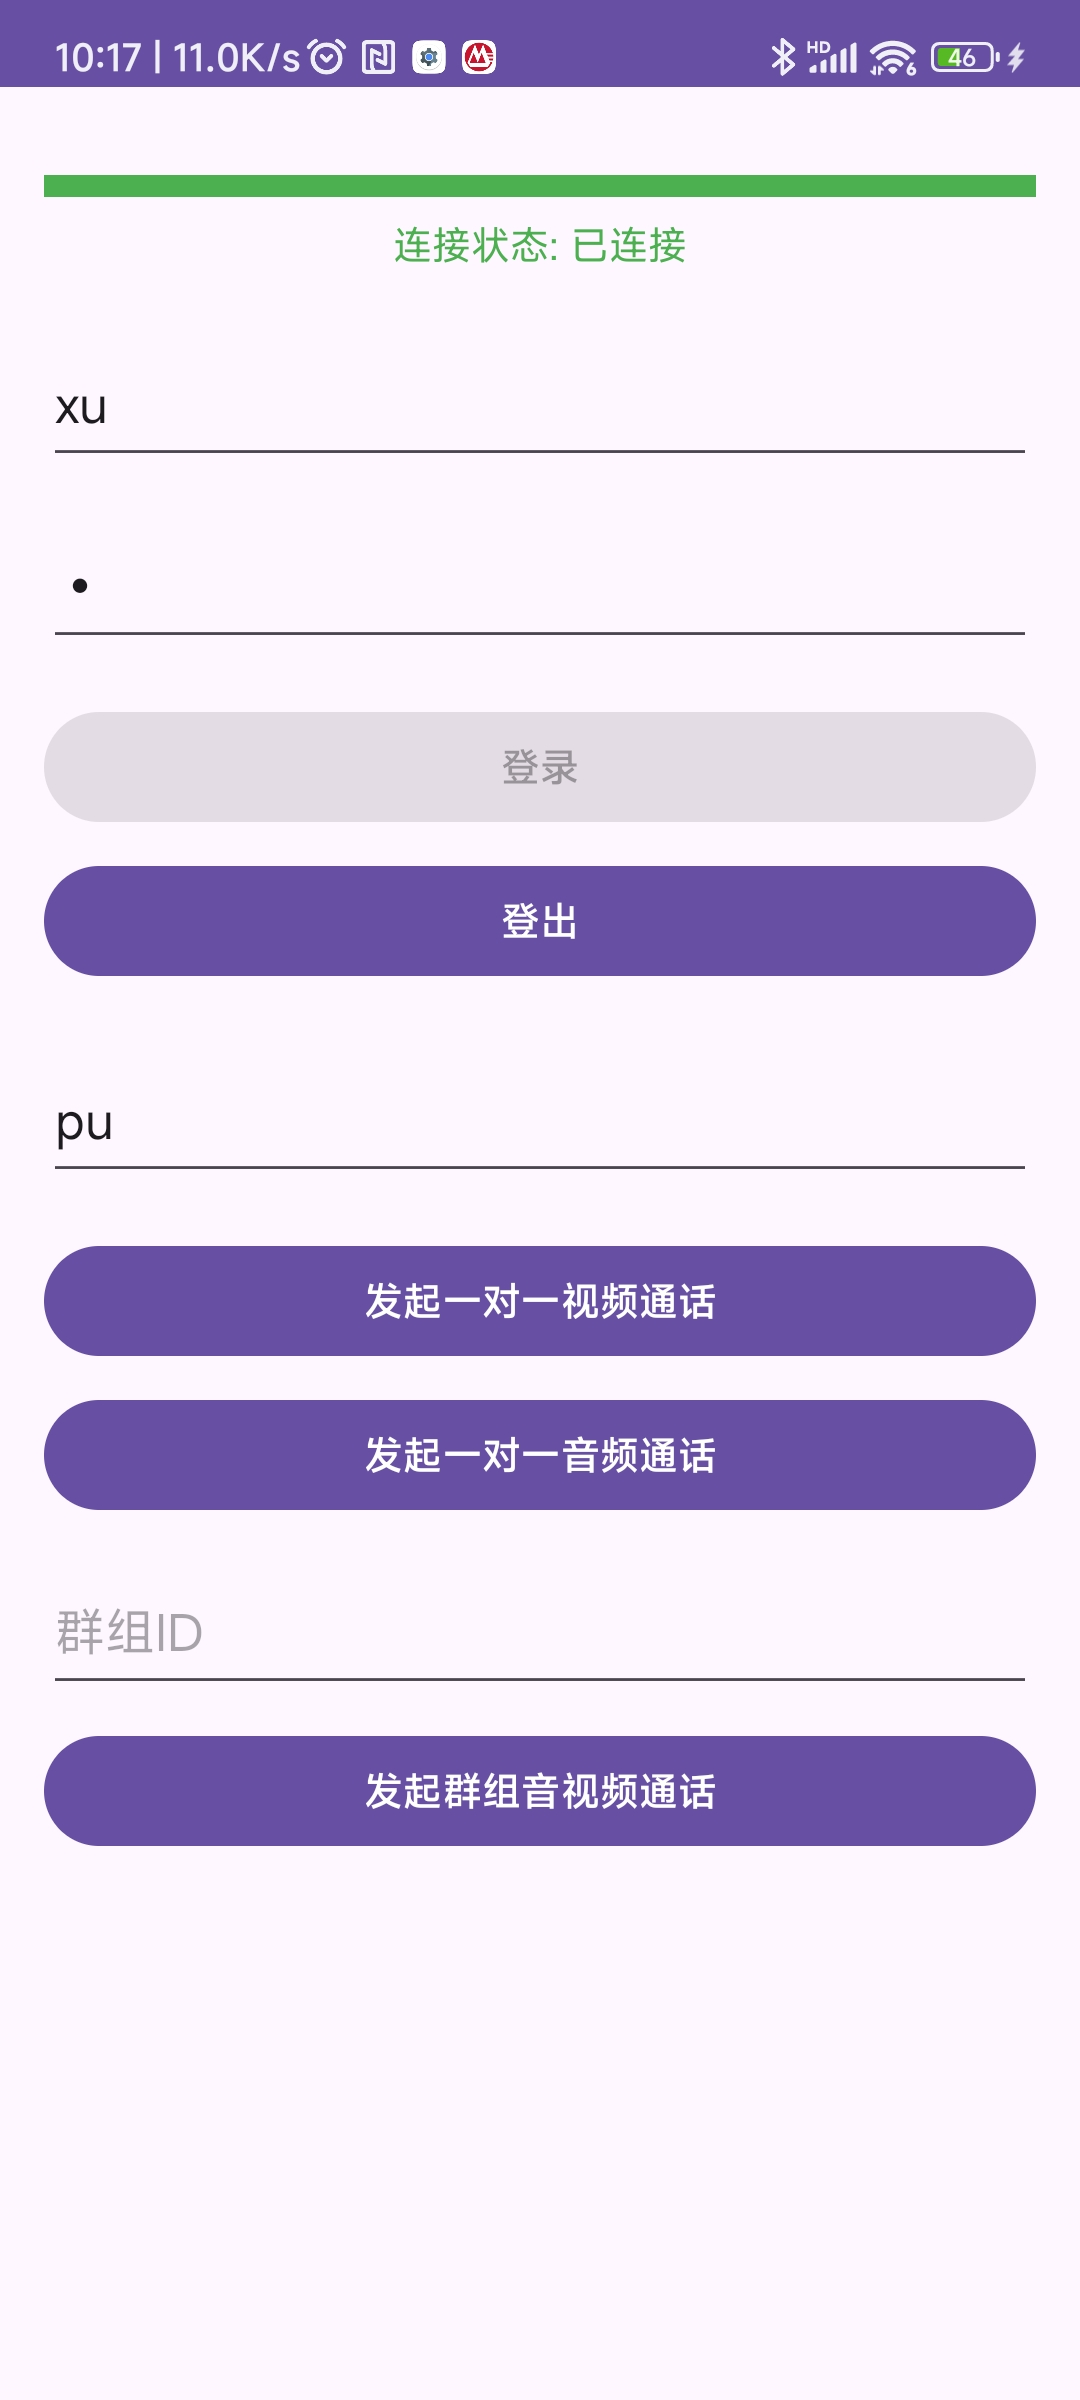
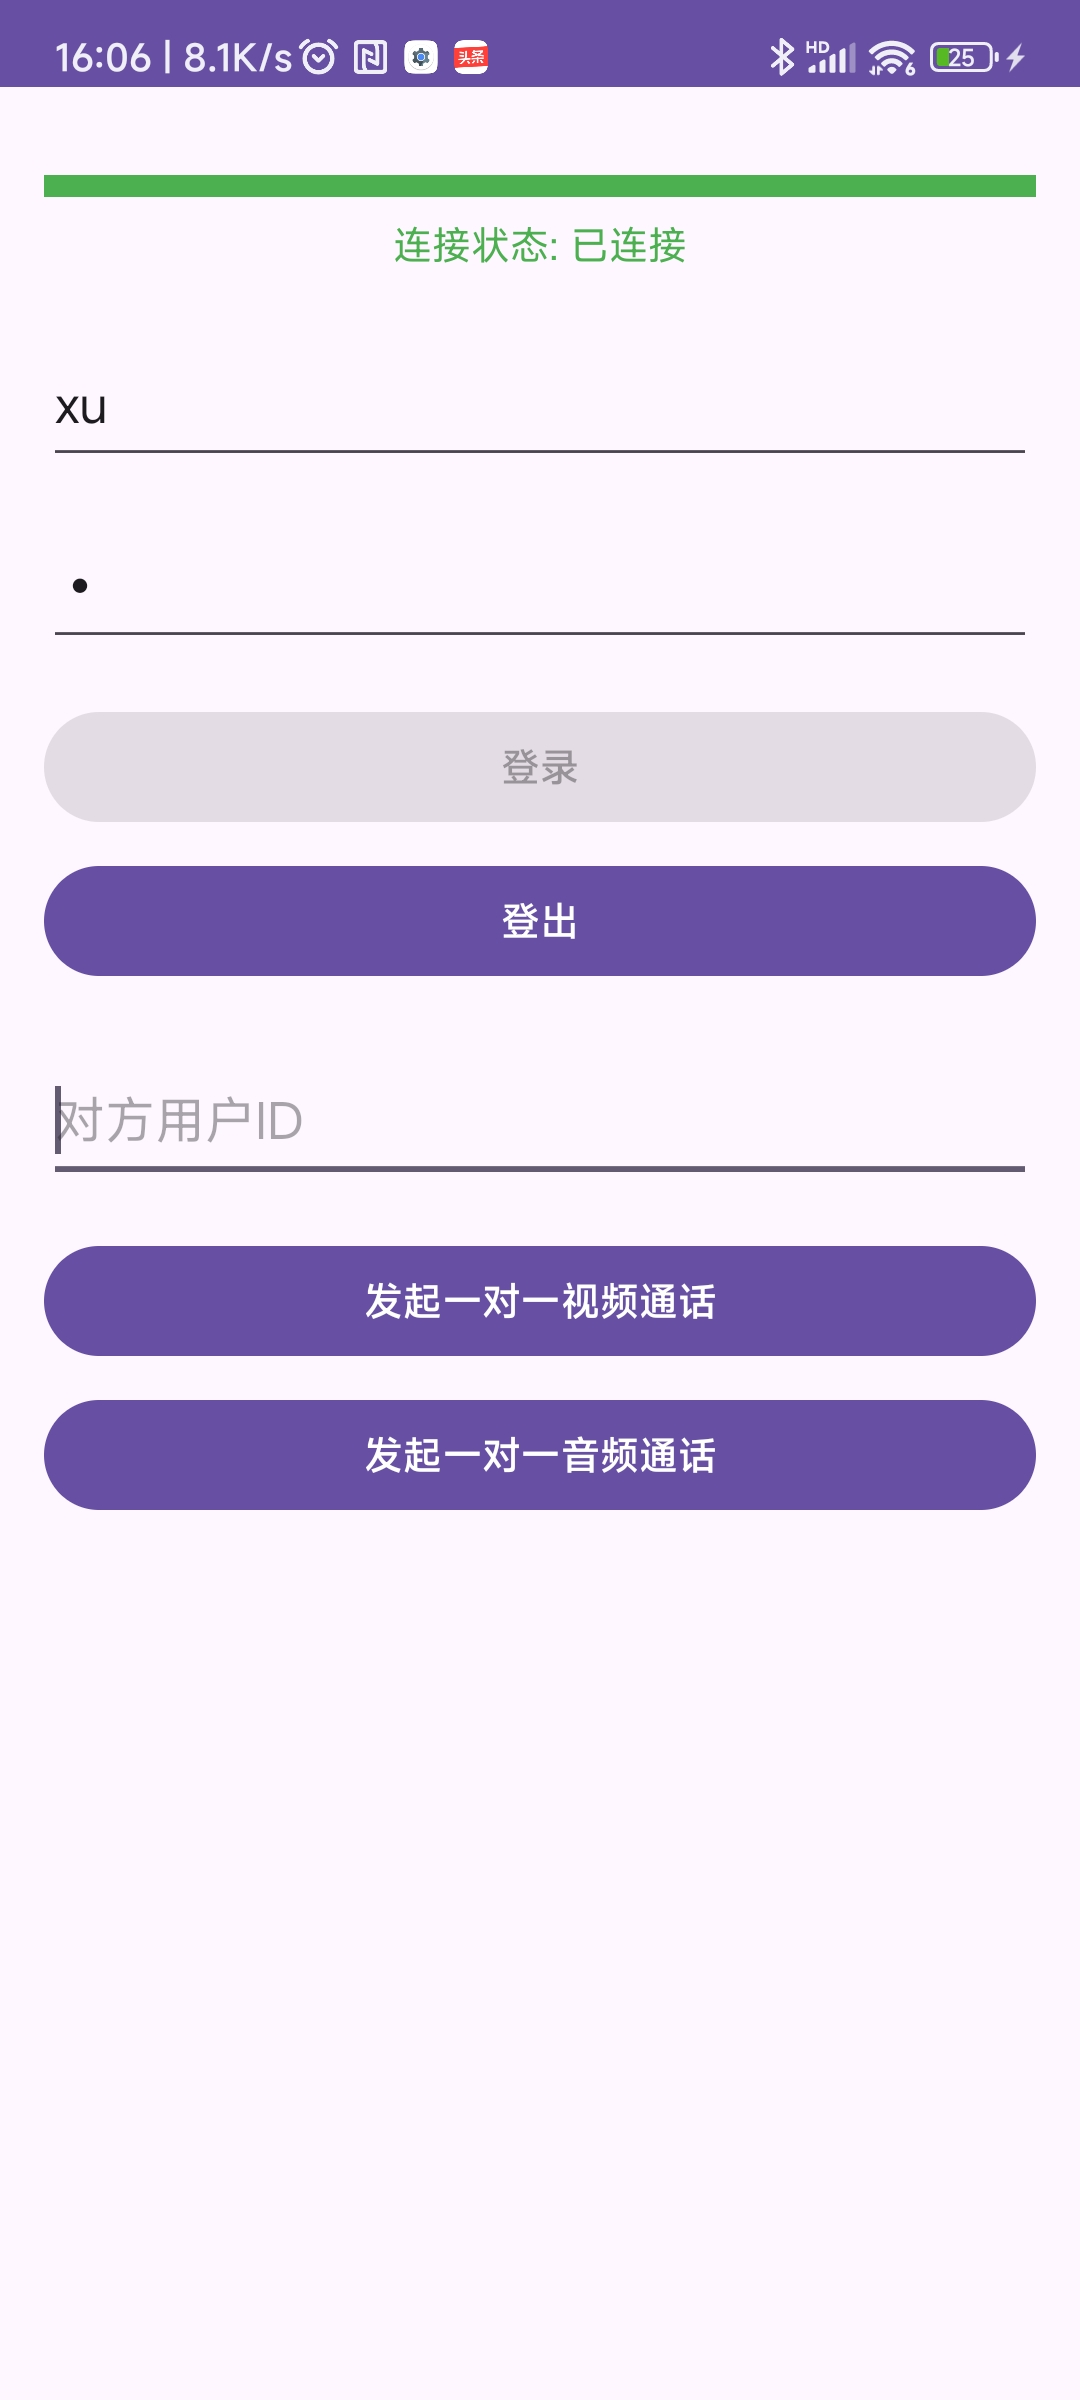
modify

diff --git a/docs/callkit/android/quickstart.md b/docs/callkit/android/quickstart.md
@@ -238,7 +238,7 @@ android.enableJetifier=true
         android:layout_width="0dp"
         android:layout_height="wrap_content"
         android:layout_marginTop="16dp"
-        android:text="发起单人视频通话"
+        android:text="发起一对一视频通话"
         app:layout_constraintEnd_toEndOf="parent"
         app:layout_constraintStart_toStartOf="parent"
         app:layout_constraintTop_toBottomOf="@+id/etPeerId" />
@@ -248,34 +248,10 @@ android.enableJetifier=true
         android:layout_width="0dp"
         android:layout_height="wrap_content"
         android:layout_marginTop="8dp"
-        android:text="发起单人音频通话"
+        android:text="发起一对一音频通话"
         app:layout_constraintEnd_toEndOf="parent"
         app:layout_constraintStart_toStartOf="parent"
         app:layout_constraintTop_toBottomOf="@+id/btnSingleVideo" />
-
-    <EditText
-        android:id="@+id/etGroupId"
-        android:layout_width="0dp"
-        android:layout_height="50dp"
-        android:layout_marginTop="16dp"
-        android:hint="群组ID"
-        android:singleLine="true"
-        android:maxLines="1"
-        android:imeOptions="actionDone"
-        android:inputType="text"
-        app:layout_constraintEnd_toEndOf="parent"
-        app:layout_constraintStart_toStartOf="parent"
-        app:layout_constraintTop_toBottomOf="@+id/btnSingleAudio" />
-
-    <Button
-        android:id="@+id/btnMultipleVideo"
-        android:layout_width="0dp"
-        android:layout_height="wrap_content"
-        android:layout_marginTop="8dp"
-        android:text="发起多人音视频通话"
-        app:layout_constraintEnd_toEndOf="parent"
-        app:layout_constraintStart_toStartOf="parent"
-        app:layout_constraintTop_toBottomOf="@+id/etGroupId" />
 
 </androidx.constraintlayout.widget.ConstraintLayout>
 ```
@@ -432,7 +408,7 @@ class MainActivity : AppCompatActivity() {
             return
         }
 
-        // 初始化环信 IM SDK
+        // 初始化环信IM SDK
         val options = ChatOptions().apply {
             this.appKey = appkey
             autoLogin = false
@@ -440,7 +416,7 @@ class MainActivity : AppCompatActivity() {
         ChatClient.getInstance().init(this, options)
         ChatClient.getInstance().setDebugMode(true)
 
-        // 初始化 CallKit
+        // 初始化CallKit
         val config = CallKitConfig()
 
         CallKitClient.init(this, config)
@@ -480,11 +456,10 @@ class MainActivity : AppCompatActivity() {
         binding.btnLogout.setOnClickListener { logout() }
         binding.btnSingleVideo.setOnClickListener { startSingleVideoCall() }
         binding.btnSingleAudio.setOnClickListener { startSingleAudioCall() }
-        binding.btnMultipleVideo.setOnClickListener { startMultipleVideoCall() }
     }
 
     private fun setupKeyboardListeners() {
-        // 为用户 ID 输入框添加键盘监听
+        // 为用户ID输入框添加键盘监听
         binding.etUserId.setOnEditorActionListener { _, actionId, event ->
             if (actionId == android.view.inputmethod.EditorInfo.IME_ACTION_DONE ||
                 actionId == android.view.inputmethod.EditorInfo.IME_ACTION_NEXT ||
@@ -508,20 +483,8 @@ class MainActivity : AppCompatActivity() {
             }
         }
 
-        // 为对方用户 ID 输入框添加键盘监听
+        // 为对方用户ID输入框添加键盘监听
         binding.etPeerId.setOnEditorActionListener { _, actionId, event ->
-            if (actionId == android.view.inputmethod.EditorInfo.IME_ACTION_DONE ||
-                actionId == android.view.inputmethod.EditorInfo.IME_ACTION_NEXT ||
-                (event?.keyCode == KeyEvent.KEYCODE_ENTER && event.action == KeyEvent.ACTION_DOWN)) {
-                hideKeyboard()
-                true
-            } else {
-                false
-            }
-        }
-
-        // 为群组 ID 输入框添加键盘监听
-        binding.etGroupId.setOnEditorActionListener { _, actionId, event ->
             if (actionId == android.view.inputmethod.EditorInfo.IME_ACTION_DONE ||
                 actionId == android.view.inputmethod.EditorInfo.IME_ACTION_NEXT ||
                 (event?.keyCode == KeyEvent.KEYCODE_ENTER && event.action == KeyEvent.ACTION_DOWN)) {
@@ -576,7 +539,7 @@ class MainActivity : AppCompatActivity() {
                     updateConnectionStatus(false, "连接状态: 已登出")
                     isLoggedIn = false
                     updateButtonStates()
-                    CallKitClient.exitCall()
+                    CallKitClient.endCall()
                     showToast("登出成功")
                 }
             }
@@ -619,27 +582,12 @@ class MainActivity : AppCompatActivity() {
         CallKitClient.startSingleCall(CallType.SINGLE_VOICE_CALL, remoteUserID, null)
     }
 
-    private fun startMultipleVideoCall() {
-        if (!isLoggedIn) {
-            showToast("请先登录")
-            return
-        }
-
-        val groupID = binding.etGroupId.text.toString().trim()
-        if (groupID.isEmpty()) {
-            showToast("群组ID不能为空")
-            return
-        }
-
-        CallKitClient.startInviteMultipleCall(groupID, null)
-    }
 
     private fun updateButtonStates() {
         binding.btnLogin.isEnabled = !isLoggedIn
         binding.btnLogout.isEnabled = isLoggedIn
         binding.btnSingleVideo.isEnabled = isLoggedIn
         binding.btnSingleAudio.isEnabled = isLoggedIn
-        binding.btnMultipleVideo.isEnabled = isLoggedIn
     }
 
     override fun onDestroy() {

diff --git a/docs/callkit/android/customization.md b/docs/callkit/android/customization.md
@@ -17,38 +17,26 @@ CallKit 支持发起呼叫时的声音、接收呼叫时的声音以及被挂断
 ```kotlin
 val config = CallKitConfig().apply {
     // 支持三种来源：assets、res/raw、绝对路径
+    // 方式 1：使用 assets 文件夹中的文件
     incomingRingFile = "assets://incoming_ring.mp3"
     outgoingRingFile = "assets://outgoing_ring.mp3"
     dingRingFile     = "assets://ding.mp3"
-    // 呼叫超时（毫秒）
-    callTimeout = 30000L
-}
-CallKitClient.init(context, config)
-```
 
-
-// TODO：成谱 Check
-CallKit 支持多种铃声配置方式：
-
-```kotlin
-val config = CallKitConfig().apply {
-    // 方式 1：使用 assets 文件夹中的文件
-    incomingRingFile = "assets://custom_incoming.mp3"
-    outgoingRingFile = "assets://custom_outgoing.mp3"
-    dingRingFile = "assets://custom_ding.mp3"
-    
     // 方式 2 ：使用 res/raw 文件夹中的文件
     // incomingRingFile = "raw://incoming_ring"
     
     // 方式 3 ：使用绝对路径
     // incomingRingFile = "/storage/emulated/0/Download/ringtone.mp3"
 }
+CallKitClient.init(context, config)
 ```
+
 
 
 //todo Android 工程师插入截图
 
-## 布局/样式替换
+## 布局/样式
+- 开发者可以通过修改布局文件源码的方式或者在应用层添加一个同名的文件来实现自定义布局。注意修改后或者新的布局文件需要包含原有布局文件里的所有资源，否则运行时会报空指针异常。允许开发者添加新的资源控件、调整控件位置、背景等。
   
   - 布局：`ease-call-kit/src/main/res/layout/`
   - layout/
@@ -69,23 +57,7 @@ val config = CallKitConfig().apply {
   - `callkit_view_base_loading.xml`：加载弹窗内容视图。// TODO：是样式吗？
   
 ## 图标与图形资源（`res/drawable*`）
-
-### Shape 样式资源
-
-| 资源                | 描述   | 
-| :------------------- | :----- | 
-| `callkit_float_window_background_8.xml` / `callkit_float_window_background_12.xml`  | 悬浮窗背景（8dp/12dp圆角）。 | 
-| `shape_rectangle_bg_*.xml` | 矩形背景，支持不同颜色与圆角（如 `2f3437_conner_12`、`80000000_conner_6/8/12`）。 | 
-| `shape_circle_bg_80000000.xml`   | 圆形半透明背景。 | 
-| `shape_rectangle_conner_12.xml`          | 通用 12 dp 圆角矩形。 | 
-  
-### 状态选择器资源
-
-| 资源                | 描述   | 
-| :------------------- | :----- | 
-| `callkit_checkbox_bg_selector_style.xml`  | 复选框背景状态选择器（选中/未选中/不可用）。 | 
-| `callkit_selector_add.xml`               | 添加按钮颜色状态选择器。  | 
-| `callkit_view_default_touch_shadow_bg.xml` | 通用触摸阴影背景。  | 
+- 开发者可直接在源码中使用同名文件替换，或者在应用层对应的`res/drawable*`添加一个同名文件,即可实现资源文件的替换。
   
 ### 功能图标（drawable-xxhdpi/）
 
@@ -140,7 +112,7 @@ val config = CallKitConfig().apply {
 | `callkit_empty_layout.png` | 空状态占位图。  | 
 
 ## 文案资源（`res/values/callkit_strings.xml`）
-
+- 开发者可直接修改`callkit_strings.xml`内资源的定义源码，或者在应用层的`res/values/strings.xml`文件中添加相同资源ID的文案资源实现文案的替换
 ### 基础状态
 
 | 资源                | 描述   | 

diff --git a/docs/callkit/android/float_top.md b/docs/callkit/android/float_top.md
@@ -1,14 +1,14 @@
  # 悬浮窗 
-
-- **来电展示分支**（`SignalingManager` 在收到有效来电确认后）：
+- CallKit内部包含顶部来电悬浮窗和通话状态时展示在屏幕右上角的小悬浮窗。顶部来电悬浮窗主要包括接听和拒绝按钮。屏幕右上角的小悬浮窗在视频通话时，展示的是对方的视频画面或者图像，在音频通话时展示的是计时器。悬浮窗的展示需要用户授予悬浮窗权限。
+- **来电展示**（`SignalingManager` 在收到有效来电确认后）：
   - 若设备处于锁屏，或 App 在后台且无悬浮窗权限 → 走系统来电界面（`TelecomHelper.startCallImmediately(...)`）
   - 否则：
     - 播放来电铃声：`AudioController.playRing(INCOMING)`
-    - 有悬浮窗权限 → 显示顶部来电条：`IncomingCallTopWindow.showIncomingCallTopWindow()`
+    - 有悬浮窗权限 → 显示顶部来电悬浮窗：`IncomingCallTopWindow.showIncomingCallTopWindow()`
     - 无悬浮窗权限 → 直接启动通话 Activity,弹出来电界面
 
 - **回到后台/前台/点击悬浮窗按钮**
-  - 会根据权限申请结果决定是否展示小悬浮窗
+  - 会根据权限申请结果决定是否展示小悬浮
 
 - **悬浮窗相关 API**
   - 小窗：`showFloatWindow()` / `hideFloatWindow()` / `isFloatWindowShowing()`

diff --git a/docs/callkit/android/api_overview.md b/docs/callkit/android/api_overview.md
@@ -7,7 +7,7 @@
 | `init(context, config)` | 初始化 CallKit |- `context`: 上下文<br/> - `config`: 配置对象 |
 | `startSingleCall(type, userId, ext)` | 发起一对一通话 | - `type`: 通话类型<br/> - `userId`: 对方用户 ID<br/> - `ext`: 扩展信息 |
 | `startInviteMultipleCall(groupId, ext)` | 发起群组通话 | - `groupId`: 群组 ID<br/> - `ext`: 扩展信息 |
-| `exitCall()` | 结束通话 | 无 |
+| `endCall()` | 结束通话 | 无 |
 | `getCache()` | 获取缓存管理器 | 无 |
 | `cleanUp()` | 清理资源 | 无 |
 
@@ -46,5 +46,3 @@
 | `onRemoteUserJoined(userId, callType, channelName)` | 远端用户加入 | - `userId`: 用户 ID<br> - `callType`: 通话类型<br> - `channelName`: 频道名称 |
 | `onRemoteUserLeft(userId, callType, channelName)` | 远端用户离开 | - `userId`: 用户ID<br> - `callType`: 通话类型<br> - `channelName`: 频道名称 |
 | `onRtcEngineCreated(engine)` | RTC 引擎创建 | `engine`: RTC 引擎实例 |
-
-// TODO：有这几种回调吗？用户忙线回调、通话接通回调、用户被踢下线的回调。

diff --git a/docs/callkit/android/integration.md b/docs/callkit/android/integration.md
@@ -313,11 +313,11 @@ private fun startGroupCall() {
 
 ### 步骤 6 结束通话
 
-正常情况下，用户通过 UI 界面挂断后由 CallKit 内部处理即可。
+正常情况下，用户通过 UI 界面挂断后由 CallKit 内部处理即可。部分场景下：例如用户正在使用callKit进行通话，此时系统电话来电，开发者希望以系统电话为主，此时可调用以下接口先主动结束callkit通话,然后接听系统电话。
 
 ```kotlin
 // 主动结束通话
-CallKitClient.exitCall()
+CallKitClient.endCall()
 ```
 
 ### 步骤 7 离线推送

diff --git a/docs/callkit/android/common_issue.md b/docs/callkit/android/common_issue.md
@@ -96,3 +96,4 @@ CallKit 会自动处理音频路由切换，支持扬声器、听筒、蓝牙耳
 - 参考 DEMO 工程的 [MainActivity#checkPhoneAccount](https://github.com/easemob/easemob-demo-android/blob/main/app/src/main/kotlin/com/hyphenate/chatdemo/MainActivity.kt)函数实现，创建并启用 `PhoneAccount`。
 - 通过 `PhoneAccountHelper.getPhoneAccountStatus()` 检查 `PhoneAccount` 的状态。
 
+

diff --git a/docs/callkit/android/sample_runthrough.md b/docs/callkit/android/sample_runthrough.md
@@ -19,6 +19,8 @@
 4. [创建群组](/product/console/operation_group.html#创建群组)，获取群组 ID。将用户加入群组。
 5. [开通音视频服务](product_activation.html)。
 
+//todo 将以上链接替换成绝对路径，因为本文件要拷贝到callkit源码工程里作为readme使用
+
 ## 操作步骤
 
 ### 步骤 1 配置项目 
